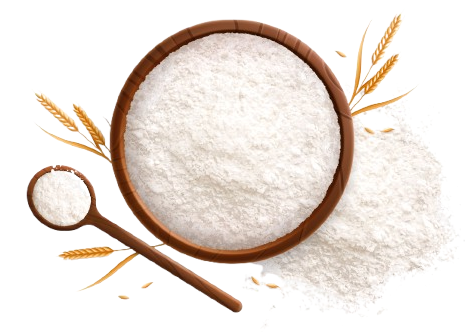
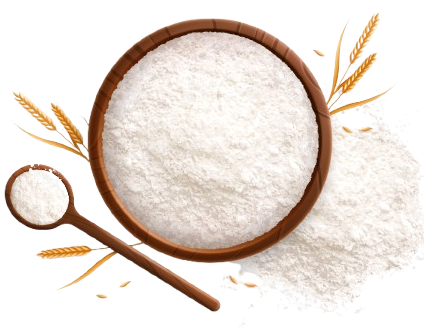
center

diff --git a/index.html b/index.html
@@ -1029,7 +1029,7 @@
                 <!--Single Choose Organic End-->
               </div>
               <div class="col-md-12 col-lg-6">
-                <div class="organic-img img-full">
+                <div class="organic-img img-full text-center">
                   <img src="img/slider/chembap.png" alt="" />
                 </div>
               </div>

diff --git a/style.css b/style.css
@@ -96,6 +96,7 @@ body {
 }
 .img-full img {
   max-width: 100%;
+
 }
 a,
 button {
